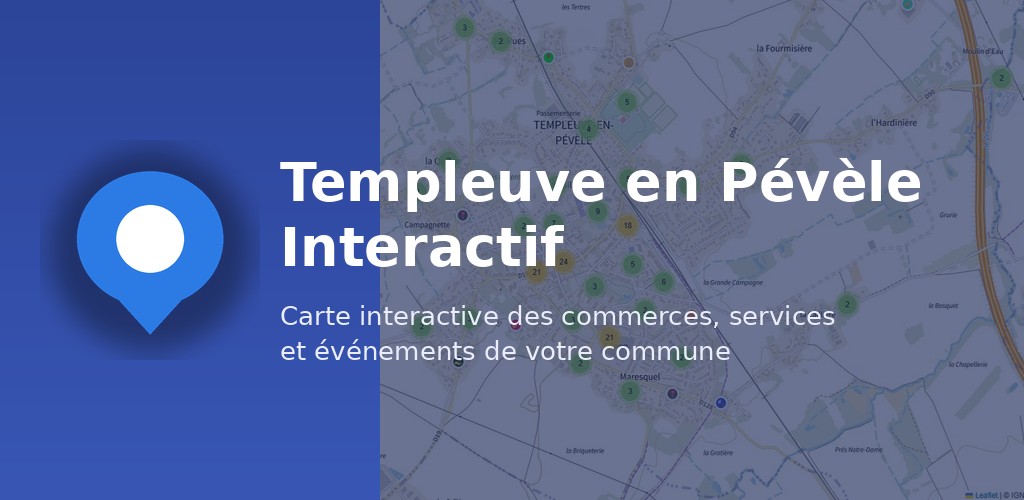
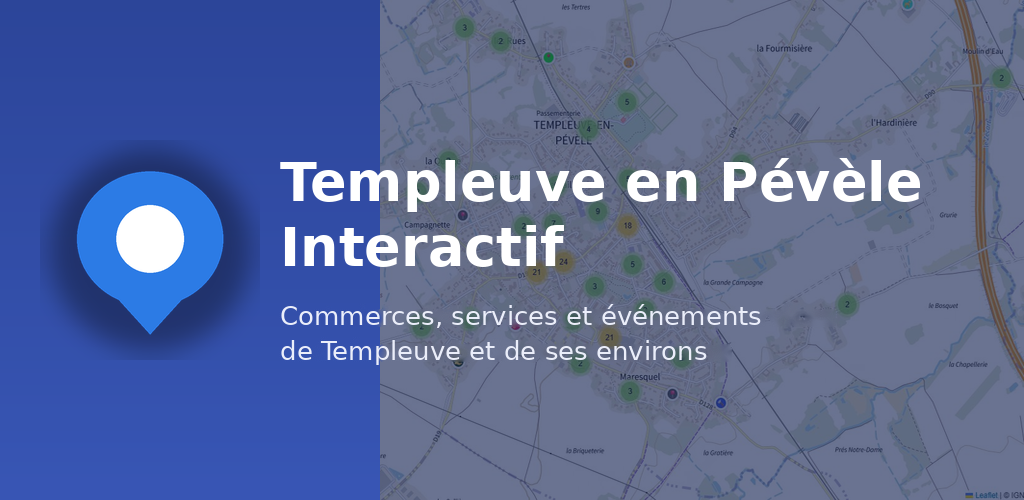
Texte d'accueil : Templeuve et ses environs

Changed region(s): [[0.2812, 0.6, 0.8125, 0.66], [0.2812, 0.69, 0.7188, 0.72]]

diff --git a/index.html b/index.html
@@ -11,14 +11,14 @@
     <!-- Aperçu de partage sur les réseaux sociaux / messageries (WhatsApp, Facebook...) -->
     <meta property="og:type" content="website">
     <meta property="og:title" content="Templeuve en Pévèle Interactif">
-    <meta property="og:description" content="Découvrez les commerces, services, lieux de patrimoine et événements de Templeuve, en un coup d'œil sur la carte.">
+    <meta property="og:description" content="Découvrez les commerces, services, lieux de patrimoine et événements de Templeuve et de ses environs, en un coup d'œil sur la carte.">
     <meta property="og:image" content="https://domino59242-code.github.io/Templeuve-en-Pevele-interactif/assets/icon-512.png">
     <meta property="og:url" content="https://domino59242-code.github.io/Templeuve-en-Pevele-interactif/">
     <meta property="og:locale" content="fr_FR">
 
     <meta name="twitter:card" content="summary">
     <meta name="twitter:title" content="Templeuve en Pévèle Interactif">
-    <meta name="twitter:description" content="Découvrez les commerces, services, lieux de patrimoine et événements de Templeuve, en un coup d'œil sur la carte.">
+    <meta name="twitter:description" content="Découvrez les commerces, services, lieux de patrimoine et événements de Templeuve et de ses environs en un coup d'œil sur la carte.">
     <meta name="twitter:image" content="https://domino59242-code.github.io/Templeuve-en-Pevele-interactif/assets/icon-512.png">
 
     <link rel="icon" type="image/svg+xml" href="assets/favicon.svg">
@@ -58,7 +58,7 @@
             <img
                 src="assets/feature-graphic.png"
                 width="1024" height="500"
-                alt="Templeuve en Pévèle Interactif : carte interactive des commerces, services et événements de votre commune">
+                alt="Templeuve en Pévèle Interactif : commerces, services et événements de Templeuve et de ses environs">
         </header>
 
         <div class="panneauAccueil">
@@ -136,7 +136,7 @@
                     <h1>Templeuve Interactive</h1>
 
                     <p class="version">
-                        Version 11.9
+                        Version 12.3
                     </p>
 
                 </div>

diff --git a/sw.js b/sw.js
@@ -9,7 +9,7 @@
  * site pour forcer les visiteurs à recharger les nouveaux fichiers.
  ******************************************************************************/
 
-const NOM_CACHE = "templeuve-interactive-v12.2";
+const NOM_CACHE = "templeuve-interactive-v12.3";
 
 const FICHIERS_A_METTRE_EN_CACHE = [
     "./",
